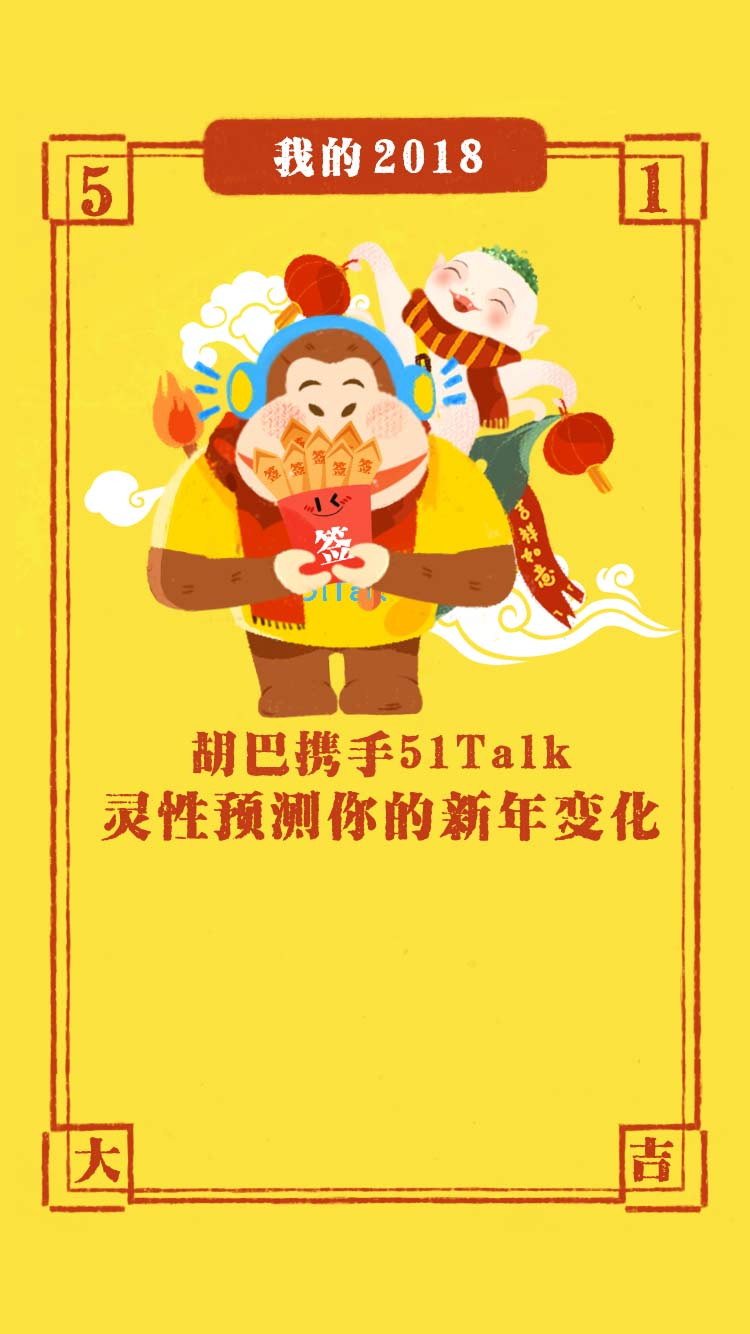
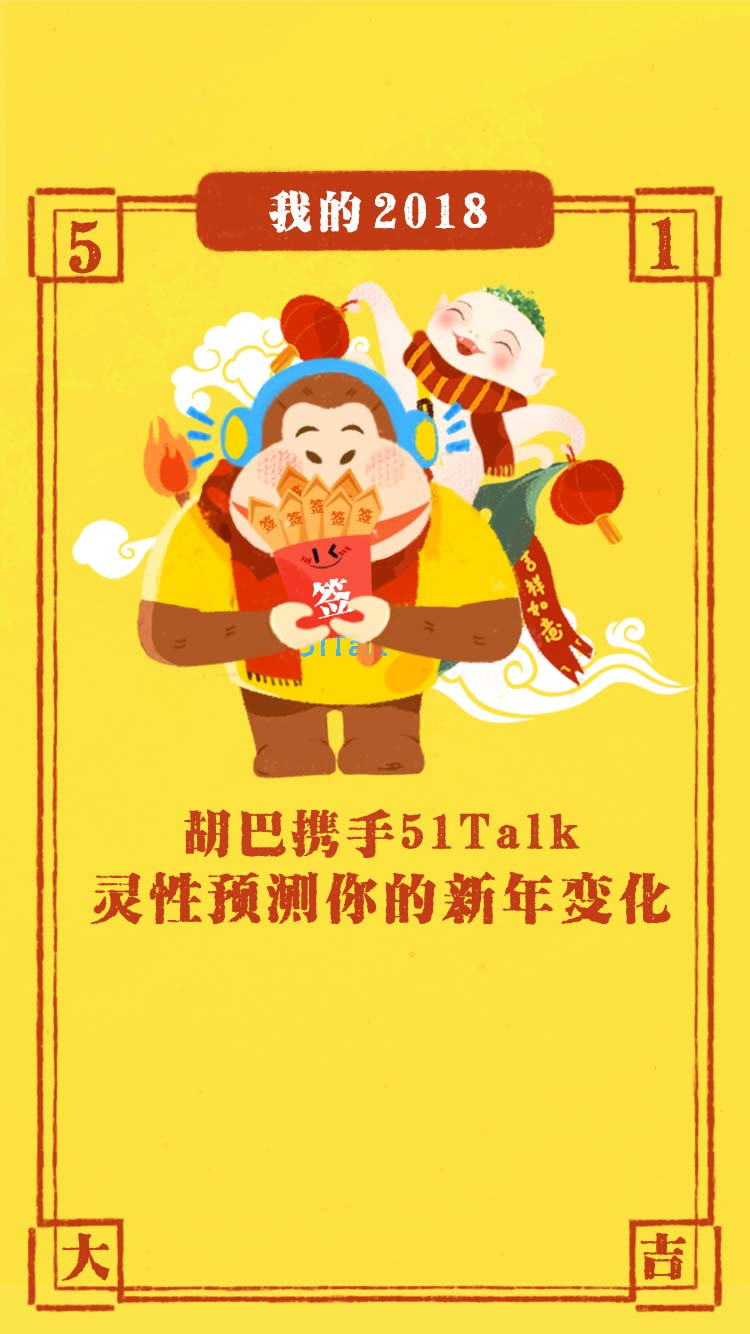
c
c

diff --git a/style/index.css b/style/index.css
@@ -1,18 +1,31 @@
 @import url("mod_reset.import.css");
 html,body{height:100%;}
 .page{position:absolute;left:0;top:0;width:100%;height:100%;}
-.page_index{background:url(img/bg1.jpg) no-repeat center top;background-size:cover;overflow:hidden;}
+.page_index{background:#fcdb32 url(img/bg1.jpg) no-repeat center bottom;background-size:100%;overflow:hidden;}
 .hand{position:absolute;left:0;bottom:0;width:100%;padding-top:48.8%;background:url(img/hand.png) no-repeat;background-size:cover;}
 .hand.play{-webkit-animation:shake .8s ease infinite;}
 .hand_cover{position:absolute;left:0;bottom:0;width:100%;padding-top:30%;background:url(img/hand_cover.png) no-repeat;background-size:cover;}
 
+.page_flag{background:#fcdb32 url(img/res_flag.jpg) no-repeat center bottom;background-size:100%;}
+.page_flag.play{-webkit-animation:fadeout 2s 2s ease-out;}
+
 .page_res{overflow-x:hidden;overflow-y:auto;}
+.page_res.play{-webkit-animation:fadein 2s ease-out;}
 .res{position:absolute;left:0;top:0;width:100%;height:100%;background:#fcdb32 url(img/res_4.jpg) no-repeat center bottom;background-size:100%;}
 .res__user{position:absolute;left:1.48rem;bottom:8.8rem;width:2.04rem;height:2.04rem;border-radius:999px;}
 .res__tips{position:absolute;left:3.8rem;bottom:10rem;font-size:0.48rem;color:#3c2613;}
-.res_show_img{display:block;width:100%;}
 
 @-webkit-keyframes shake{
 	0%{-webkit-transform:rotate(-10deg);}
 	100%{-webkit-transform:rotate(10deg);}
+}
+
+@-webkit-keyframes fadeout{
+	0%{opacity:1;}
+	100%{opacity:0;}
+}
+
+@-webkit-keyframes fadein{
+	0%{opacity:0;}
+	100%{opacity:1;}
 }

diff --git a/index.html b/index.html
@@ -47,6 +47,8 @@
             <div class="res__tips">沸羊羊的新年变化关键词：</div>
         </div>
     </div>
+
+    <div class="page page_flag"></div>
         
 </body>
 <script type="text/javascript" src="js/zepto.min.js"></script>
@@ -76,7 +78,7 @@ $(function(){
             var speed = Math.abs(x + y + z - lastX - lastY - lastZ) / diffTime * 10000;
             if(speed > shakeSpeed){//如果计算出来的速度超过了阈值，那么就算作用户成功摇一摇
                 //这里就是放置如果用户成功的摇一摇，将要触发的事件，例如提示摇到了谁，摇到了多少金币等等
-                alert(1);
+                $('.page_flag, .page_res').addClass('play');
             }
             lastX = x;//赋值，为下一次计算做准备
             lastY = y;//赋值，为下一次计算做准备
